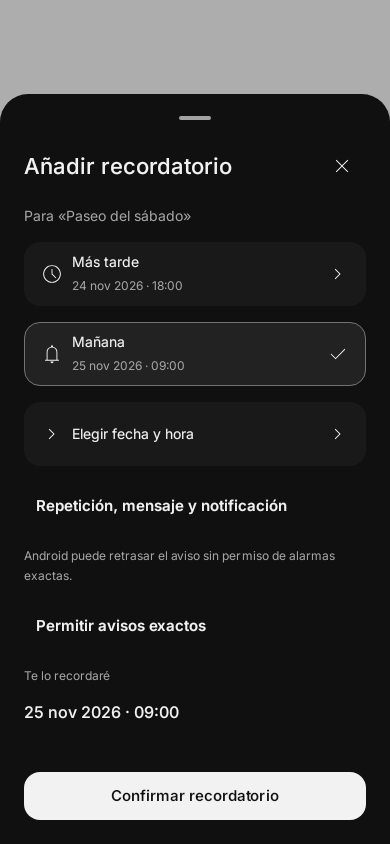
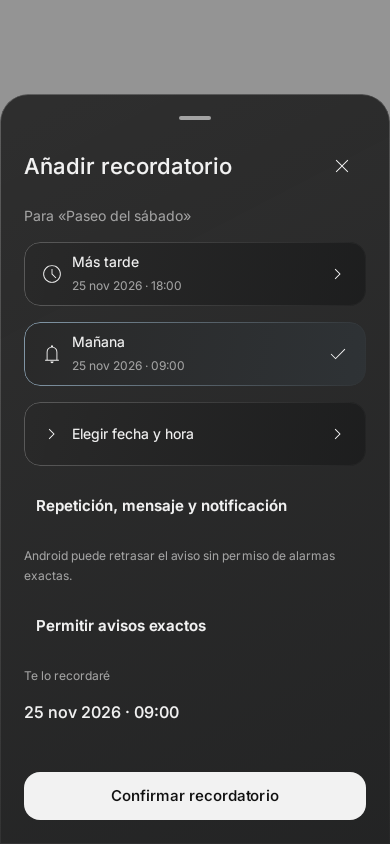
docs: update glass UI previews and local verification

diff --git a/docs/pruebas.md b/docs/pruebas.md
@@ -39,15 +39,16 @@ Los filtros mostrados corresponden a las clases presentes en el repositorio.
 | `SettingsViewModelTest` | 1 | Conservación del tema persistido cuando falla una escritura y recuperación al reintentar. |
 | `NoteStorageTest` | 4 | Migración 2→4 con SQLite y operaciones de repositorio con IDs estables y orden de consulta. |
 | `FolderStorageTest` | 3 | Migración 3→4 conservando todos los campos; creación/renombrado/borrado, movimientos y guardados obsoletos, duplicados con acentos, carpetas desaparecidas y separación de recordatorios. |
+| `SampleNoteCollectionTest` | 3 | Seis estrofas breves, importación repetida y reintento parcial sin duplicar, conservación de notas/metadatos y reutilización de carpetas existentes. |
 | `UserPreferencesRepositoryTest` | 1 | Migración del tema anterior a DataStore y conservación de una nueva selección al reabrir. |
 | `DestinationTest` | 1 | Serialización y deserialización de destinos con argumentos tipados. |
 | `DateUtilsTest` | 2 | Agrupación de fechas de años distintos y detección de hoy/ayer. |
 | `RichEditorTest` | 11 | Compatibilidad con texto antiguo, serialización, reapertura con negrita, deshacer/rehacer, limpieza parcial, listas, casillas, espaciado, color con selección conservada y estado de la barra y continuación/salida de listas con Intro, subtítulos y conservación de metadatos al deshacer. |
 | `ExampleUnitTest` | 1 | Prueba aritmética de ejemplo del proyecto; no valida funcionalidad de Clean Mind. |
 | `ReminderExportTest` | 5 | Repetición y serialización, programación/recuperación/cancelación de alarmas, TXT UTF-8 y paginación visual de exportación. |
-| `DesignUiTest` | 12 | Capturas locales, privacidad de previews, compartir con pulsación larga, búsqueda/cuadrícula, concentración, completado, ajustes, selección de fecha/hora y formulario independiente con confirmación al descartar y filtrado/movimiento de notas entre carpetas y exclusión de Volver en destinos ocultos. |
+| `DesignUiTest` | 13 | Capturas locales, privacidad de previews, compartir con pulsación larga, búsqueda/cuadrícula, concentración, completado, ajustes, selección de fecha/hora y formulario independiente con confirmación al descartar y filtrado/movimiento de notas entre carpetas y exclusión de Volver en destinos ocultos, carpetas en cuadrícula y ausencia de búsqueda en Notas. |
 
-Total actual: **62 pruebas locales**, de las cuales una es el ejemplo aritmético original. Esta cifra describe la suite actual y debe revisarse al añadir o retirar casos; no es un porcentaje de cobertura de código.
+Total actual: **66 pruebas locales**, de las cuales una es el ejemplo aritmético original. Esta cifra describe la suite actual y debe revisarse al añadir o retirar casos; no es un porcentaje de cobertura de código.
 
 Las pruebas de ViewModel usan `kotlinx-coroutines-test` para controlar la ejecución y el tiempo virtual. `FakeNoteRepository` permite simular lentitud, errores y cambios observables.
 
@@ -66,9 +67,9 @@ Las carpetas `build/` contienen salidas generadas. No forman parte de la documen
 
 ## Estado conocido
 
-La última ejecución local de verificación de código terminó con compilación debug correcta, lint sin errores y 62 pruebas locales superadas, sin fallos ni casos omitidos. Lint conserva avisos sobre versiones de dependencias y recursos.
+La última ejecución local de verificación de código terminó con compilación debug correcta, lint sin errores y 66 pruebas locales superadas, sin fallos ni casos omitidos. Lint conserva avisos sobre versiones de dependencias y recursos.
 
-La comprobación de formato de Android Studio terminó con 95 archivos revisados y conformes al estilo compartido.
+La comprobación de formato de Android Studio terminó con 100 archivos revisados y conformes al estilo compartido.
 
 ## Validación en Xiaomi · 24 de noviembre de 2026
 
@@ -119,3 +120,11 @@ La composición del PDF se comprueba con Canvas nativo sobre bitmaps, revisando 
 El rediseño, sus capturas y las referencias que no se pudieron contrastar se documentan en [UI de Figma](figma-ui.md).
 
 Las pruebas de almacenamiento comprueban que la fecha de creación no cambia al editar y que las notas antiguas utilizan la fecha persistida. Las pruebas de UI verifican la agrupación por creación aunque una nota se haya editado hoy, las dos acciones del botón central y los ajustes visibles sin desplegables.
+
+## Revisión de cristal y cuadrícula
+
+Compilación debug y release, lint debug y las 66 pruebas locales han finalizado correctamente. Se verificó además el contenido de ambos APK: `science-notes.json` se incluye únicamente en debug. Las pruebas de UI renderizan el acabado translúcido sin GPU; no certifican el desenfoque acelerado de Haze.
+
+Se obtuvo una copia privada del realme (Android API 33) antes de efectuar cambios. Al perder la conexión ADB se omitieron la instalación y las pruebas de teléfono, como indicó el usuario. Las notas solicitadas se incorporarán una sola vez al ejecutar la nueva variante debug; no se afirma que ya estén en su instalación actual.
+
+[Material de cristal](glass-ui.md) · [Colección de ciencia](ciencia-breve.md).

diff --git a/README.md b/README.md
@@ -10,11 +10,11 @@ La interfaz está construida con Jetpack Compose y Material 3. La arquitectura u
 - Guardar automáticamente mientras escribes y mostrar el estado de guardado.
 - Consultar la actividad por fecha o cambiar a una cuadrícula adaptable.
 - Buscar por título y contenido.
-- Organizar notas en [carpetas](docs/carpetas.md), con creación, renombrado y movimiento.
+- Organizar notas en [carpetas](docs/carpetas.md) en cuadrícula, con creación, renombrado y movimiento.
 - Crear recordatorios con formulario propio de tarea, fecha y hora y guardado explícito.
 - Compartir texto mediante el selector de aplicaciones de Android.
 - Elegir un tema claro, oscuro o vinculado al dispositivo.
-- Arranque monocromo y transiciones breves entre pantallas, pestañas y herramientas.
+- Arranque monocromo, [superficies de cristal](docs/glass-ui.md) y transiciones breves entre pantallas, pestañas y herramientas.
 - Conservar el tema y restaurar determinados estados de navegación y edición.
 
 Los recordatorios permiten notificaciones configurables, repetición y posposición. Se pueden guardar y compartir TXT/PDF y mantener copias TXT en una carpeta elegida. La app no incluye cuentas, sincronización propia, restauración de copias completas ni papelera. Consulta los detalles en la [guía de uso](docs/guia-de-uso.md).
@@ -76,3 +76,5 @@ Se ha revisado la app en un Xiaomi Redmi Note 8 Pro con Android API 36: creació
 `feat/figma-complete-ui` implementa el nuevo flujo de Inicio, Notas, Recordatorios, editor y concentración. Consulta [implementación, capturas y límites de fidelidad](docs/figma-ui.md).
 
 Los últimos ajustes de marca, agenda, iconos, formato y recordatorios están descritos en [Cambios de Clean Mind](docs/cambios-clean-mind.md).
+
+La variante debug incluye [seis notas científicas breves](docs/ciencia-breve.md), que se incorporan una sola vez sin sobrescribir contenido. Release no instala muestras. Esta última revisión se verificó localmente; no se continuaron las pruebas del realme al perderse ADB.

diff --git a/docs/figma-ui.md b/docs/figma-ui.md
@@ -58,7 +58,7 @@ Una notificación puede pertenecer a una nota normal o a un recordatorio explíc
 
 `DesignUiTest` utiliza Compose y Robolectric con gráficos nativos, sin teléfono ni emulador. Comprueba ocultación del cuerpo, pulsación larga, búsqueda/cuadrícula, entrada/salida de concentración, completar sin eliminar, ajustes y selección de fecha/hora. Las capturas se generan en `/tmp/cleanmind-ui-*.png`; una selección está en [ui-preview](ui-preview/).
 
-La suite completa consta de 62 pruebas locales. La notificación real con la app en segundo plano, los diálogos de fecha/hora, la hoja de compartir y la escritura nativa de PDF se han comprobado en Xiaomi. Cámara, pegado de imágenes y escritura SAF siguen pendientes; consulta [Pruebas](pruebas.md).
+La suite completa consta de 66 pruebas locales. La notificación real con la app en segundo plano, los diálogos de fecha/hora, la hoja de compartir y la escritura nativa de PDF se han comprobado en Xiaomi. Cámara, pegado de imágenes y escritura SAF siguen pendientes; consulta [Pruebas](pruebas.md).
 
 
 ## Ajustes solicitados el 24 de noviembre
@@ -70,3 +70,5 @@ La agenda agrupa por `NoteDocument.createdAt`, no por la última edición. El re
 La revisión posterior simplifica los recordatorios independientes en tareas con guardado explícito, los separa de la agenda y sustituye el menú de creación por una hoja Material 3. Estas diferencias respecto de Figma también son intencionadas.
 
 Las carpetas, el arranque monocromo y las transiciones se incorporan por las nuevas peticiones del usuario y amplían la referencia original. Consulta [Carpetas](carpetas.md) y [Movimiento y arranque](movimiento.md).
+
+La UI de cristal y las carpetas en cuadrícula son cambios posteriores pedidos por el usuario. Notas ya no incorpora una búsqueda local; la búsqueda global continúa en su pestaña.

diff --git a/docs/glass-ui.md b/docs/glass-ui.md
@@ -6,6 +6,6 @@ La UI usa un material compartido en `GlassMaterial.kt`: desenfoque del fondo, ti
 
 Se utiliza Haze 1.6.10, compatible con la versión de Kotlin/Compose del proyecto. Las versiones nuevas de Haze requieren una plataforma de compilación posterior; este cambio visual no actualiza la arquitectura ni el SDK. Referencias: [uso y estilos de Haze 1.6.10](https://github.com/chrisbanes/haze/blob/1.6.10/docs/usage.md), [versión de la biblioteca](https://github.com/chrisbanes/haze/tree/1.6.10).
 
-El desenfoque se activa desde API 32 cuando la vista tiene aceleración gráfica. En versiones anteriores, vistas de previsualización y renderizado sin GPU, se usa una superficie translúcida con los mismos bordes y contraste. Las capturas JVM de `DesignUiTest` seleccionan explícitamente este acabado porque su Canvas de bitmap no implementa el pipeline gráfico de Android; el desenfoque real se comprueba en hardware.
+El desenfoque se activa desde API 32 cuando la vista tiene aceleración gráfica. En versiones anteriores, vistas de previsualización y renderizado sin GPU, se usa una superficie translúcida con los mismos bordes y contraste. Las capturas JVM de `DesignUiTest` seleccionan explícitamente este acabado porque su Canvas de bitmap no implementa el pipeline gráfico de Android; el desenfoque real requiere comprobación en hardware. En esta revisión se ha validado el renderizado de compatibilidad; la conexión ADB del realme se perdió y no se continuaron las pruebas en el teléfono.
 
 Las hojas inferiores comparten `GlassBottomSheet`. El material está dentro del contenido que desplaza Material 3, para que su recorte no interfiera con arrastre, gestos o zonas pulsables. Las superficies transparentes heredan explícitamente el color de texto del tema.

diff --git a/docs/cambios-clean-mind.md b/docs/cambios-clean-mind.md
@@ -18,7 +18,7 @@ Se conserva `com.example.cleannotes` como identificador y namespace, además de 
 
 ## Verificación
 
-Compilación debug, lint y 62 pruebas locales sin fallos ni omisiones. El formateador de Android Studio valida 95 archivos. Las capturas de [ui-preview](ui-preview/) usan datos sintéticos de Robolectric.
+Compilación debug, lint y 66 pruebas locales sin fallos ni omisiones. El formateador de Android Studio valida 100 archivos. Las capturas de [ui-preview](ui-preview/) usan datos sintéticos de Robolectric.
 
 En Xiaomi se probaron los flujos principales, una notificación con la app en segundo plano y la generación/compartición de texto y PDF. Se eliminaron los datos de prueba y se verificó que los registros originales permanecen idénticos. Consulta [Pruebas](pruebas.md) para los resultados y los casos aún pendientes.
 
@@ -27,3 +27,5 @@ En Xiaomi se probaron los flujos principales, una notificación con la app en se
 Las instrucciones de formato están en [Desarrollo](desarrollo.md#formato-compartido). Los iconos proceden de la fuente oficial de Google; [design](../design/README.md) conserva procedencia, ejes, huella y generador. Las licencias de Inter y Material Symbols están en `app/src/main/assets/licenses/`.
 
 Las ampliaciones posteriores de carpetas, arranque y transiciones se documentan en [Carpetas](carpetas.md) y [Movimiento](movimiento.md).
+
+La revisión de cristal, cuadrícula y colección científica está en [Cristal](glass-ui.md) y [Ciencia breve](ciencia-breve.md). La última validación fue local, sin continuar en el realme al fallar ADB.

diff --git a/docs/arquitectura.md b/docs/arquitectura.md
@@ -180,3 +180,5 @@ La agenda de Inicio se presenta con `AgendaDayGroup`, agrupando por `Note.creati
 `NotesApp` muestra `ReminderEditorScreen` cuando el documento es un recordatorio independiente. Comparte el ViewModel y el repositorio con las notas para conservar compatibilidad de datos; la presentación y el guardado son distintos. `EditNoteViewModel` mantiene el borrador pero no inicia autoguardado para `isReminder`: solo `saveAndClose` persiste la tarea. Las notas normales conservan el debounce de 600 ms. Los recordatorios vinculados a notas mantienen su hoja de configuración y no cambian el tipo de la nota.
 
 Las carpetas usan la misma capa de datos, con `FolderEntity` y una clave externa de nota. Su operación expone carga, error y revisión de persistencia; las hojas solo confirman al completarse la escritura. `AppMotion` centraliza las transiciones y el contenedor guardable de pestañas conserva el scroll durante el cambio de vista. Consulta [Carpetas](carpetas.md) y [Movimiento](movimiento.md).
+
+`GlassScene` y `glassMaterial` centralizan la captura del fondo y el acabado visual. Las carpetas y las notas comparten una cuadrícula perezosa con spans distintos, y lista/cuadrícula usan contenedores separados durante el fundido. La colección científica se inicializa desde una implementación exclusiva de debug; el código release no añade ejemplos.

diff --git a/docs/guia-de-uso.md b/docs/guia-de-uso.md
@@ -76,7 +76,7 @@ Pulsa la notificación para abrir su nota o **Posponer** (duración configurable
 
 ## Organizar en carpetas
 
-En **Notas → Carpetas → Gestionar** puedes crear o renombrar carpetas. Selecciona una para consultar sus notas; el botón **+ → Nueva nota** utiliza esa carpeta. La pulsación larga de una nota ofrece **Mover a carpeta**. **Sin carpeta** reúne las notas sin asignación. Eliminar una carpeta conserva sus notas. Estas carpetas son independientes del directorio de copias TXT de Ajustes. Consulta [Carpetas](carpetas.md).
+En **Notas** las carpetas aparecen en cuadrícula. El icono de carpeta con **+** abre **Gestionar carpetas**, donde puedes crearlas o renombrarlas. Selecciona una para consultar sus notas; el botón **+ → Nueva nota** utiliza esa carpeta. La pulsación larga de una nota ofrece **Mover a carpeta**. **Sin carpeta** reúne las notas sin asignación. Eliminar una carpeta conserva sus notas. Notas no muestra una barra de búsqueda; utiliza la pestaña **Buscar**. Estas carpetas son independientes del directorio de copias TXT de Ajustes. Consulta [Carpetas](carpetas.md).
 
 ## Buscar
 

diff --git a/docs/mantenimiento.md b/docs/mantenimiento.md
@@ -63,3 +63,5 @@ Antes de distribuir una actualización, verifica que la versión de app sea la a
 El workflow manual actual genera artefactos; no publica en una tienda. No hay un archivo `LICENSE` en el repositorio en el estado revisado; la documentación no asigna una licencia nueva.
 
 [Índice de documentación](README.md).
+
+La colección de ciencia está en `design/content/science-notes.json`. Solo debug la incorpora una vez; release usa un inicializador vacío. Mantén la importación aditiva y sus pruebas de idempotencia antes de cambiar los ejemplos. Consulta [Ciencia breve](ciencia-breve.md).

diff --git a/docs/README.md b/docs/README.md
@@ -18,6 +18,8 @@ Consulta también [Cambios de Clean Mind](cambios-clean-mind.md) para el estilo 
 
 Consulta [Carpetas](carpetas.md) para organización y migraciones, y [Movimiento y arranque](movimiento.md) para las transiciones y la splash monocroma.
 
+Consulta [Cristal y superficies](glass-ui.md) para el material compartido y [Ciencia breve](ciencia-breve.md) para las seis notas incluidas en la versión de desarrollo.
+
 ## Fuentes de verdad
 
 | Información | Fuente |
